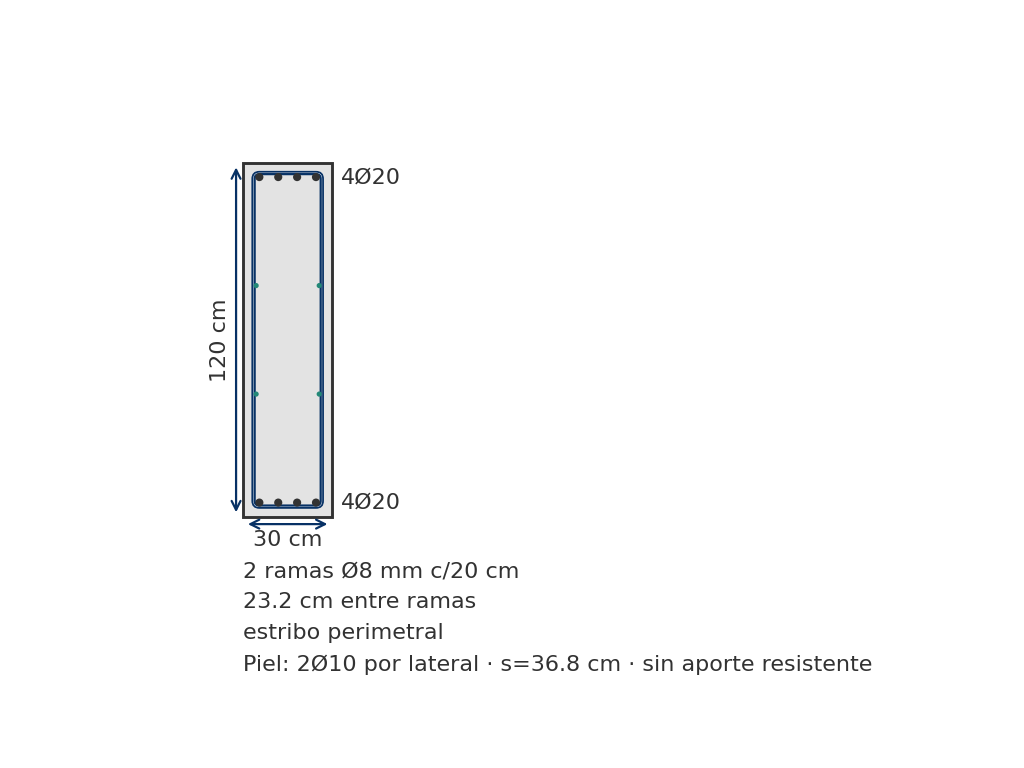
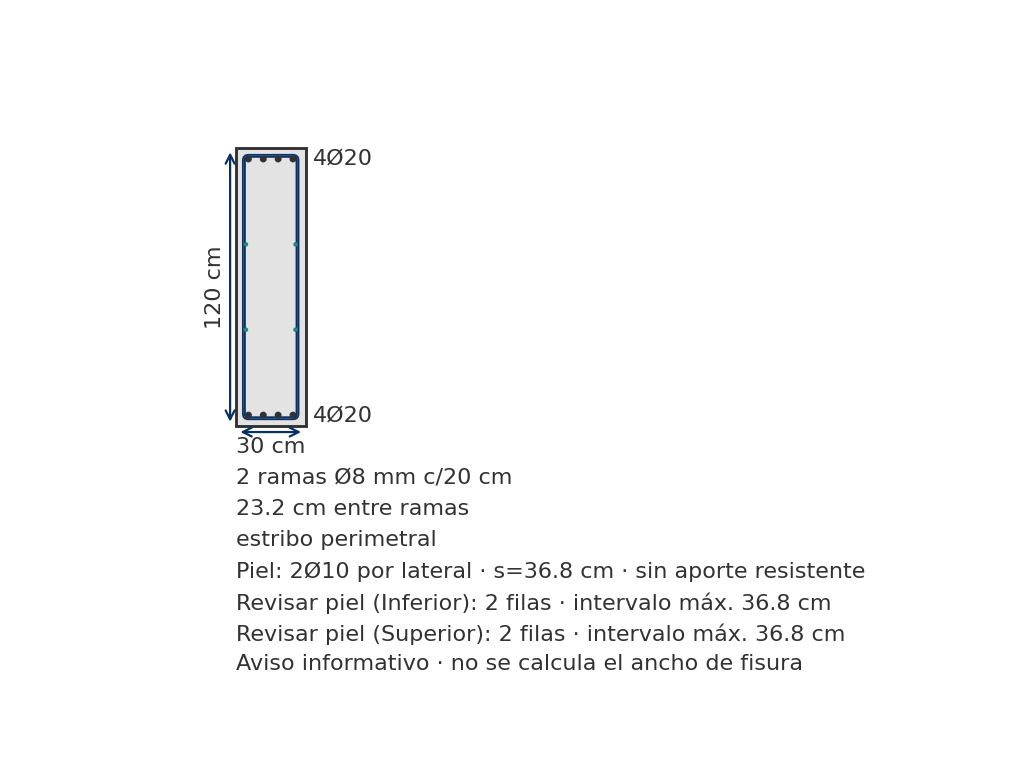
fix: retain EN skin layout with review warnings and pending tension cases

Changed region(s): [[0.1875, 0.1875, 0.8438, 0.875]]

diff --git a/tests/sections/test_skin_reinforcement.py b/tests/sections/test_skin_reinforcement.py
@@ -102,8 +102,28 @@ def test_unchecked_deep_beam_and_zero_moment():
     plt.close(fig)
     set_language("en")
     b.check_flexure([Forces(M_y=0 * kNm)])
-    assert b.skin_reinforcement.status == "not_required"
+    assert b.skin_reinforcement.status == "pending"
+    assert b.skin_reinforcement.pending_reason == "no_tension_case"
+    assert "skin_tension_case_pending" in [w.code for w in b.warnings]
     assert not b.detailing_geometry.skin_bars
+
+
+def test_en_zero_moment_stays_pending_and_pure_axial_is_unsupported():
+    from mento.units import kN
+
+    b = en_beam()
+    b.check_flexure([Forces(M_y=0 * kNm)])
+    assert b.skin_reinforcement.status == "pending"
+    assert b.skin_reinforcement.pending_reason == "no_tension_case"
+    assert "skin_tension_case_pending" in [w.code for w in b.warnings]
+    fig = b.plot()
+    assert any("no tension case identified" in text.get_text() for text in fig.axes[0].texts)
+    assert not any("no flexure verification" in text.get_text() for text in fig.axes[0].texts)
+    plt.close(fig)
+    b.check_flexure([Forces(N_x=100 * kN, M_y=0 * kNm)])
+    assert b.skin_reinforcement.status == "unsupported"
+    assert b.skin_reinforcement.pending_reason == "axial"
+    assert "skin_en_axial_unsupported" in [w.code for w in b.warnings]
 
 
 def test_diameter_is_configurable_and_not_a_code_minimum():
@@ -223,6 +243,36 @@ def test_en_inclusive_one_metre_boundary(height, required):
     b.check_flexure([Forces(M_y=100 * kNm)])
     assert (b.skin_reinforcement.status == "required") == required
     assert bool(b.detailing_geometry.skin_bars) == required
+
+
+@pytest.mark.parametrize("height, rows, gap", [(1000, 1, 356), (1200, 2, 304)])
+def test_en_keeps_its_distribution_and_warns_with_the_actual_zone_intervals(height, rows, gap):
+    b = en_beam(height * mm)
+    b.check_flexure([Forces(M_y=100 * kNm)])
+    before = b.skin_reinforcement
+    geometry = b.detailing_geometry
+    assert before.n_per_side == rows
+    assert len(geometry.skin_bars) == 2 * rows
+    try:
+        for language in ("en", "es"):
+            set_language(language)
+            warning = next(w for w in b.warnings if w.code == "skin_distribution_review")
+            assert warning.face == "bottom"
+            assert warning.values["rows"] == rows
+            assert warning.values["gap"].to("mm").magnitude == pytest.approx(gap)
+            assert ("not an additional code" if language == "en" else "no un límite normativo") in warning.message
+            assert b.skin_reinforcement == before
+            assert b.detailing_geometry == geometry
+            fig = b.plot()
+            labels = [text.get_text() for text in fig.axes[0].texts]
+            assert any(("Review skin" if language == "en" else "Revisar piel") in text for text in labels)
+            assert any(
+                ("crack width is not calculated" if language == "en" else "no se calcula el ancho de fisura") in text
+                for text in labels
+            )
+            plt.close(fig)
+    finally:
+        set_language("en")
 
 
 def test_en_minimum_and_diameter_route_use_characteristic_strength_and_half_service_stress():

diff --git a/mento/codes/en_1992_2004/skin.py b/mento/codes/en_1992_2004/skin.py
@@ -32,6 +32,17 @@ def _length(value: object, name: str) -> float:
 
 
 def requirement(beam: RectangularBeam) -> SkinReinforcementRequirement:
+    """Web steel — EN 1992-1-1:2004 §7.3.3(3), for pure rectangular bending.
+
+    Minimum area: §7.3.2(2), Eq. (7.1), with kc=0.4 from Eq. (7.2),
+    k=0.5 and sigma_s=f_yk as specified by §7.3.3(3). Mento splits the
+    total area equally between the two sides. Diameter control uses
+    §7.3.3(2), Table 7.2N and Eq. (7.7N): §7.3.3(3) explicitly asks
+    to assume pure tension and half the main service steel stress here,
+    although the beam itself is in bending. Rounding stress up to a table
+    row and selecting an equally spaced grid are Mento detailing choices.
+    This is distinct from informative Annex J, §J.1(1)-(3), surface mesh.
+    """
     from mento.cage_detailing import CageDetailingError
     from mento.material import Concrete_EN_1992_2004
 
@@ -41,10 +52,10 @@ def requirement(beam: RectangularBeam) -> SkinReinforcementRequirement:
     if not beam._flexure_checked or not beam.flexure_checks:
         return SkinReinforcementRequirement("pending", threshold)
     faces = tuple(face for face in ("bottom", "top") if any(getattr(c, face).DCR > 0 for c in beam.flexure_checks))
-    if not faces:
-        return SkinReinforcementRequirement("not_required", threshold)
     if any(check.has_axial_force for check in beam.flexure_checks):
         return SkinReinforcementRequirement("unsupported", threshold, faces, pending_reason="axial")
+    if not faces:
+        return SkinReinforcementRequirement("pending", threshold, pending_reason="no_tension_case")
     concrete = beam.concrete
     assert isinstance(concrete, Concrete_EN_1992_2004)
     settings = beam.settings
@@ -137,6 +148,15 @@ def requirement(beam: RectangularBeam) -> SkinReinforcementRequirement:
             break
     else:
         raise CageDetailingError("The EN skin-steel envelope cannot be distributed.")
+    # Keep the diameter-route proposal, including a single row where its
+    # minimum area permits it. Expose the actual distribution for engineering
+    # review; do not invent a spacing limit from the alternative Table 7.3N.
+    reviews = []
+    for face, (a, b) in zip(faces, zones):
+        zone_rows = tuple(y for y in rows if a - 1e-9 <= y <= b + 1e-9)
+        levels = (a, *zone_rows, b)
+        largest_gap = max(right - left for left, right in zip(levels, levels[1:]))
+        reviews.append((face, len(zone_rows), largest_gap * mm))
     return SkinReinforcementRequirement(
         "required",
         threshold,
@@ -149,4 +169,5 @@ def requirement(beam: RectangularBeam) -> SkinReinforcementRequirement:
         area_min_per_side=amin * mm**2,
         area_per_side=count * abar * mm**2,
         diameter_max=dmax * mm,
+        distribution_reviews=tuple(reviews),
     )

diff --git a/mento/design_warnings.py b/mento/design_warnings.py
@@ -202,7 +202,13 @@ _MESSAGES: Dict[str, str] = {
         "it is excluded from resistance."
     ),
     "skin_reinforcement_pending": "Skin reinforcement is pending: verify flexure to identify the tension face.",
+    "skin_tension_case_pending": "Skin reinforcement is pending: the checked combinations identify no tension face. A zero-moment or capacity check does not establish an exemption.",
     "skin_detailing_invalid": "The skin reinforcement preference cannot satisfy the detailing limits.",
+    "skin_distribution_review": (
+        "Review skin-steel distribution for the {face} tension case: {rows} rows per side in its service zone, "
+        "largest vertical interval {gap}, including zone boundaries. This is informative, not an additional code "
+        "spacing limit; the diameter-route proposal does not verify crack width directly."
+    ),
     "skin_en_required": "EN §7.3.3(3): longitudinal skin steel is required; minimum {area} per side, adjusted maximum diameter {diameter}. Excluded from resistance.",
     "skin_en_service_pending": "EN skin detailing is pending: supply cracked-service steel stress and neutral-axis depth; ultimate forces cannot replace them.",
     "skin_en_axial_unsupported": "EN skin detailing with axial force is not supported; the pure-bending skin proposal cannot be used.",
@@ -789,6 +795,10 @@ def skin_warnings(beam: "RectangularBeam") -> List[_Raw]:
     if requirement.status == "not_applicable":
         return []
     result: List[_Raw] = []
+    for face, rows, gap in requirement.distribution_reviews:
+        result.append(_Raw("skin_distribution_review", {"rows": rows, "gap": gap}, face=face))
+    if requirement.pending_reason == "no_tension_case":
+        result.append(_Raw("skin_tension_case_pending", {}))
     if beam.concrete.design_code == "EN 1992-2004":
         if beam.c_c + beam._stirrup_d_b > 70 * mm or any(bar.d_b > 32 * mm for bar in beam.section_geometry.bars):
             result.append(_Raw("skin_en_surface_pending", {}))
@@ -800,10 +810,10 @@ def skin_warnings(beam: "RectangularBeam") -> List[_Raw]:
             result.append(
                 _Raw("skin_en_required", {"area": requirement.area_min_per_side, "diameter": requirement.diameter_max})
             )
-        elif requirement.status == "pending":
+        elif requirement.status == "pending" and requirement.pending_reason != "no_tension_case":
             result.append(_Raw("skin_reinforcement_pending", {}))
     elif requirement.status == "required":
         result.append(_Raw("skin_reinforcement_required", {"s_max": requirement.s_max}))
-    elif requirement.status == "pending":
+    elif requirement.status == "pending" and requirement.pending_reason != "no_tension_case":
         result.append(_Raw("skin_reinforcement_pending", {}))
     return result

diff --git a/mento/i18n.py b/mento/i18n.py
@@ -368,6 +368,10 @@ ES.update(
         "EN §7.3.3(3): longitudinal skin steel is required; minimum {area} per side, adjusted maximum diameter {diameter}. Excluded from resistance.": "EN §7.3.3(3): se requiere piel longitudinal; mínimo {area} por lateral, diámetro máximo corregido {diameter}. Sin aporte resistente.",
         "EN skin detailing is pending: supply cracked-service steel stress and neutral-axis depth; ultimate forces cannot replace them.": "Detalle de piel EN pendiente: indicar tensión del acero y profundidad del eje neutro en servicio fisurado; los esfuerzos últimos no los reemplazan.",
         "EN skin detailing with axial force is not supported; the pure-bending skin proposal cannot be used.": "La piel EN con esfuerzo axial no está implementada; no corresponde aplicar la propuesta de flexión pura.",
+        "Skin reinforcement is pending: the checked combinations identify no tension face. A zero-moment or capacity check does not establish an exemption.": "La armadura de piel está pendiente: las combinaciones verificadas no identifican una cara traccionada. Una comprobación con momento nulo o de capacidad no establece una exención.",
+        "Review skin ({face}): {rows} rows · max interval {gap}": "Revisar piel ({face}): {rows} filas · intervalo máx. {gap}",
+        "Informative review · crack width is not calculated": "Aviso informativo · no se calcula el ancho de fisura",
+        "Review skin-steel distribution for the {face} tension case: {rows} rows per side in its service zone, largest vertical interval {gap}, including zone boundaries. This is informative, not an additional code spacing limit; the diameter-route proposal does not verify crack width directly.": "Revisar la distribución de piel para la tracción en la cara {face}: {rows} filas por lateral en su zona de servicio, mayor intervalo vertical {gap}, incluyendo los bordes de la zona. Es informativo, no un límite normativo adicional de separación; la propuesta por diámetro no comprueba directamente el ancho de fisura.",
         "EN Annex J surface reinforcement outside the links requires a separate check for large bars or cover greater than 70 mm; longitudinal skin bars do not replace it.": "La armadura superficial EN del Anexo J, exterior a los estribos, requiere una comprobación aparte para barras grandes o recubrimiento mayor que 70 mm; las barras longitudinales de piel no la reemplazan.",
     }
 )

diff --git a/mento/plots/sections.py b/mento/plots/sections.py
@@ -35,7 +35,7 @@ from mento.results import CUSTOM_COLORS
 from mento.section_geometry import BarPosition, Crosstie, SectionGeometry
 from mento.cage_detailing import CageDetailingError
 from mento.codes.registry import design_code
-from mento.i18n import get_language
+from mento.i18n import get_language, translate
 
 if TYPE_CHECKING:
     from matplotlib.axes import Axes
@@ -804,14 +804,33 @@ def plot_beam_section(self: "RectangularBeam", show: bool = False) -> Figure:
                 if get_language() == "es"
                 else f"Skin: {notation} per side · s={skin.spacing.to(unit):.3g~P} · excluded from resistance"
             )
+            for face, rows, gap in skin.distribution_reviews:
+                lines.append(
+                    translate(
+                        "Review skin ({face}): {rows} rows · max interval {gap}",
+                        face=translate(face.capitalize()),
+                        rows=rows,
+                        gap=f"{gap.to(unit):.3g~P}",
+                    )
+                )
+            if skin.distribution_reviews:
+                lines.append(translate("Informative review · crack width is not calculated"))
         try:
             pending_requirement = self.skin_reinforcement
             skin_pending = pending_requirement.status == "pending"
             service_pending = pending_requirement.pending_reason == "service"
+            tension_case_pending = pending_requirement.pending_reason == "no_tension_case"
         except CageDetailingError:
             skin_pending = False
             service_pending = False
-        if skin_pending and service_pending:
+            tension_case_pending = False
+        if skin_pending and tension_case_pending:
+            lines.append(
+                "Armadura de piel pendiente · sin caso de tracción identificado"
+                if get_language() == "es"
+                else "Skin reinforcement pending · no tension case identified"
+            )
+        elif skin_pending and service_pending:
             lines.append(
                 "Piel EN pendiente · faltan datos de servicio"
                 if get_language() == "es"

diff --git a/mento/skin_reinforcement.py b/mento/skin_reinforcement.py
@@ -47,6 +47,10 @@ class SkinReinforcementRequirement:
     area_per_side: Quantity | None = None
     diameter_max: Quantity | None = None
     pending_reason: str | None = None
+    # Informative layout review: (tension face, rows in its service zone,
+    # largest vertical interval, including gaps to the zone boundaries).
+    # This is not an additional code spacing limit or a crack-width check.
+    distribution_reviews: tuple[tuple[str, int, Quantity], ...] = ()
 
 
 def skin_requirement(beam: RectangularBeam) -> SkinReinforcementRequirement:
@@ -68,7 +72,7 @@ def skin_requirement(beam: RectangularBeam) -> SkinReinforcementRequirement:
         face for face in ("bottom", "top") if any(getattr(check, face).DCR > 0 for check in beam.flexure_checks)
     )
     if not faces:
-        return SkinReinforcementRequirement("not_required", threshold)
+        return SkinReinforcementRequirement("pending", threshold, pending_reason="no_tension_case")
     settings = beam.settings
     assert settings is not None
     diameter = settings.skin_bar_diameter

diff --git a/docs/source/user_guide/beams.rst b/docs/source/user_guide/beams.rst
@@ -358,6 +358,21 @@ area_min_per_side, area_per_side, diameter_max and actual rows.
 The spacing describes the proposal; s_max is None because the selected
 diameter method does not introduce a separate code spacing cap.
 
+The proposal retains a single row when the minimum area permits it. It does
+not impose a Mento minimum of two rows. ``skin_distribution_review`` reports
+the number of rows per lateral face inside each service tension zone and its
+largest vertical interval, including gaps to the zone boundaries. This
+informative warning accompanies every EN proposal so that sparse layouts
+remain visible for engineering review. These intervals are not clear
+distances between bar surfaces or an additional EN spacing limit. The
+diameter-route proposal does not directly calculate or certify crack width.
+The drawing displays this review alongside the actual skin-steel proposal.
+
+A zero-moment or capacity-only check on a section within the skin-steel
+scope leaves the requirement ``pending`` with reason ``no_tension_case``;
+it does not establish that skin reinforcement is unnecessary. EN axial
+cases are ``unsupported`` even when their moment is zero.
+
 Missing service inputs produce pending and no skin bars. Invalid inputs,
 an excessive diameter or a physical clash raise CageDetailingError.
 Axial-force combinations explicitly report unsupported: the pure-bending
